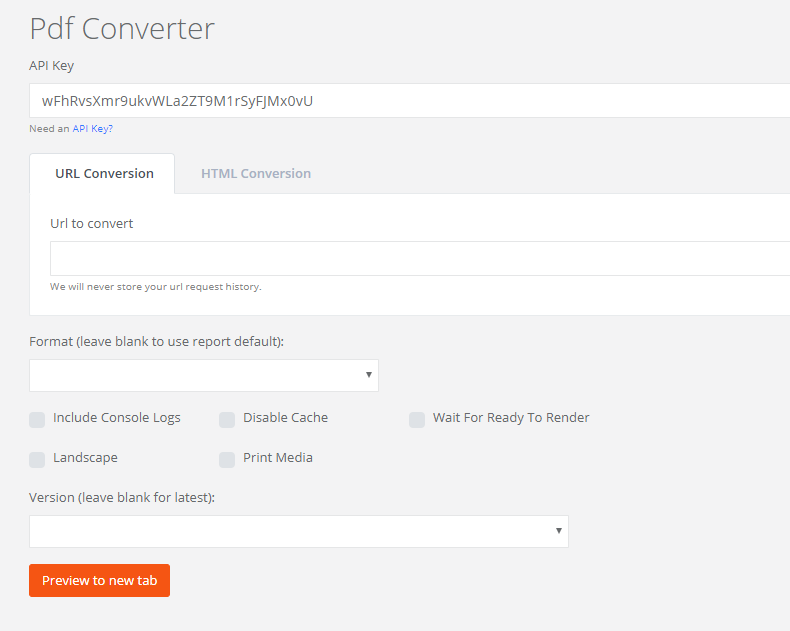
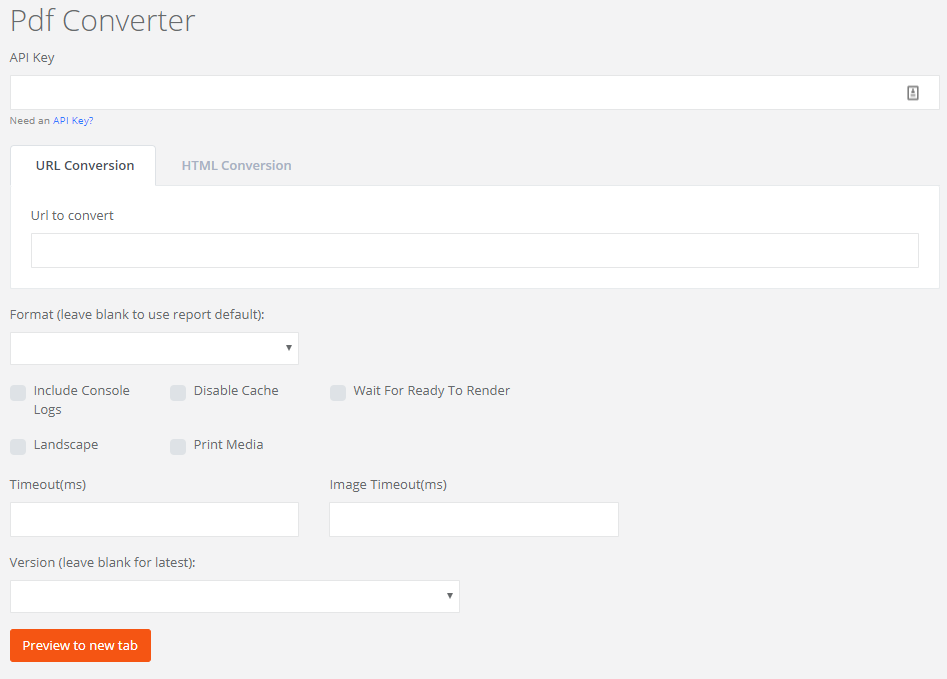
WIP

diff --git a/docs/getting-started.md b/docs/getting-started.md
@@ -1,37 +1,46 @@
 # Getting Started
 
 Building reports using Responsive Paper is simple and intuitive. Responsive Paper is an online service which converts
-html or urls and returns a pdf file.
+html or urls and returns a pdf file. In order for you to tap into the power of the Responsive Paper rendering engine, you'll need to annotate your html with the [Responsive Paper CSS classes](/css-reference?id=responsive-paper-css-reference). You can include the [responsive-paper.designer.js](https://responsivepaper.com/devtools/responsive-paper.designer.js) and [responsive-paper.settings.js](https://examples.responsivepaper.com/responsive-paper.settings-template.js) files for a rich design time experience including WYSIWYG page layout and real time pdf previewing.
 
 ## Production and Design Time Process Flow
 
-Here's a visualization of the rendering in a production environment:
+Here is a visualization of the rendering in a production environment:
 
 ![Production Sequence](production-seq.diagram.png)
 
-Here's a visualization of the rendering in a development environment:
+Here is a visualization of the rendering in a development environment:
 
 ![Design Time Sequence](design-time-seq.diagram.png)
 
-## Create a log in and generate a free developer api key
+## Create a log in and generate a free developer API key
 
-An api key is required to do html to pdf conversion while you are developing locally.  To get an api key, goto the [sign up](https://responsivepaper.com/user/signup) page and enter your name, email and password and you will be redirected to your [dashboard](https://responsivepaper.com/user/dashboard) where you can view your api key
+An API key is required to do html to pdf conversion while you are developing locally.  To get an API key, goto the [sign up](https://responsivepaper.com/user/signup) page and enter your name, email and password and you will be redirected to your [dashboard](https://responsivepaper.com/user/dashboard) where you can view your API key
 
 
 ## Development Environment
 
-The Responsive Paper Service (RPS) uses headless chrome server side so it is advised to develop your reports using [Google Chrome](https://www.google.com/chrome/) or the [Brave browser](https://brave.com/).  For tooling you'll need [git](https://git-scm.com/downloads), [node.js](https://nodejs.org/en/) and an editor such as [VS Code](https://code.visualstudio.com/)
+The Responsive Paper Service (RPS) uses headless Chrome server side so for compatibility reasons it is best to develop your reports using [Google Chrome](https://www.google.com/chrome/) or the [Brave browser](https://brave.com/).  For tooling you'll need [git](https://git-scm.com/downloads), [node.js](https://nodejs.org/en/) and an editor such as [VS Code](https://code.visualstudio.com/)
 
 
-### Install localtunnel for design time testing
+## Install Tunnel Software
 
-Your HTML reports are converted to PDF's using the responsivepaper.com service. In order to test the HTML conversion while you are developing locally you can open a tunnel to your local development server using the [localtunnel.me](https://github.com/localtunnel/localtunnel) service:
+Your HTML reports are converted to PDF's using the responsivepaper.com service. In order to test the HTML conversion while you are developing locally you can open a tunnel to your local development server using  [ngrok](https://ngrok.com/download). Once installed start up the tunnel using a command such as:
+
+```
+ngrok http -host-header=rewrite https://localhost:44300
+```
+
+
+An alternative is to use the [localtunnel.me](https://github.com/localtunnel/localtunnel) service:
 
 ```
 npm install -g localtunnel
 ```
 
-?> TIP: At the time of this writing, localtunnel v2.0.0 had limited support for accessing local web servers over https.  If you need to access your local testing server over https you can try the more fully featured [ngrok](https://ngrok.com/download) (fremium).
+?> TIP: At the time of this writing, localtunnel v2.0.0 had limited support for accessing local web servers over https.  If you need to access your local testing server over https you should stick with the fully featured [ngrok](https://ngrok.com/download) (fremium).
+
+## Install a Local Web Server
 
 If you don't have a local web server installed, install one using:
 

diff --git a/docs/api-and-deployment.md b/docs/api-and-deployment.md
@@ -62,7 +62,7 @@ Please see the deployment folder in the [examples repository](https://github.com
 
 ## Testing UI
 
-You can also test publicly accessible or [tunneled](/getting-started?id=install-localtunnel-for-design-time-testing) urls, or html, using the [online converter tool](https://www.responsivepaper.com/convert)
+You can also test publicly accessible or [tunneled](/getting-started?id=install-tunnel-software) urls, or html, using the [online converter tool](https://www.responsivepaper.com/convert)
 
 ![Convert UI](convert-ui.png)
 
@@ -97,7 +97,7 @@ If the request is successful the consoleLogs will be displayed on the last page 
 
 Invoke a GET or POST request on the following URL:
 
-https://www.responsivepaper.com/convert/api/html2pdf/v2
+https://www.responsivepaper.com/api/html2pdf/v2
 
 For GET requests, add the parameters to the query string.
 
@@ -125,9 +125,9 @@ For POST requests, add the parameters to a JSON or url encoded body.
 | format<br><small>string</small> | Set to override the default paper size as set on the rp-page element<br><small>**Example:** Legal [CSS Ref](/css-reference?id=rp-ps-paper-size-and-orientation)</small> |
 | landscape<br><small>boolean</small> | Set to 'true' override the default page orientation as set on the rp-page element [CSS Ref](/css-reference?id=rp-ps-paper-size-and-orientation)</small> |
 | printMedia<br><small>boolean</small> | If falsy, `emulateMedia: screen` is passed to headless chrome, otherwise `emulateMedia: print` is passed.</small> |
-| timeout<br><small>integer</small> | Request will abort if page load and rendering exceed the timeout (ms). Default: 10000, Minimum: 600</small> |
-| imageTimeout<br><small>integer</small> | Length of time to wait for images to load (ms). 0: don't wait for images, Default: timeout</small> |
-
+| timeout<br><small>integer</small> | Request will abort if page load and rendering exceed the timeout (ms). Default: 10000, Minimum: 600 |
+| imageTimeout<br><small>integer</small> | Length of time to wait for images to load (ms). 0: don't wait for images, Default: timeout |
+| version<br><small>string</small> | Version of the server side rendering engine, defaults to blank which uses latest engine<br><small>**Example:** 0.1.1</small> |
 
 
 

diff --git a/docs/README.md b/docs/README.md
@@ -1,7 +1,8 @@
 # Introduction
 
-The Responsive Paper HTML
-to PDF API is an easy to use web service that renders web pages annotated with the [Responsive Paper CSS classes](css-reference?id=css-reference) and delivers the paginated view as a PDF document. The service utilizes the headless chrome browser rendering engine incorporating the latest rich html / css / js capabilities.
+Responsive Paper is a revolutionary way to design and build pdf reports using pure html, javascript, and css. It puts the ease of GUI report design into the hands of you as a developer. The Responsive Paper HTML to PDF API is an easy to use web service that renders web pages annotated with the [Responsive Paper CSS classes](css-reference?id=css-reference) and delivers the paginated view as a PDF document. The service utilizes the headless chrome browser rendering engine incorporating the latest rich html / css / js capabilities.
+
+Some of the highlights of Responsive Paper include:
 
 * Create pdf reports using your favorite client side html/js/css framework (e.g. Vue, React, etc)
 * Use the latest css technologies and retain reprinting headers without using `<th>` tags and print media queries
